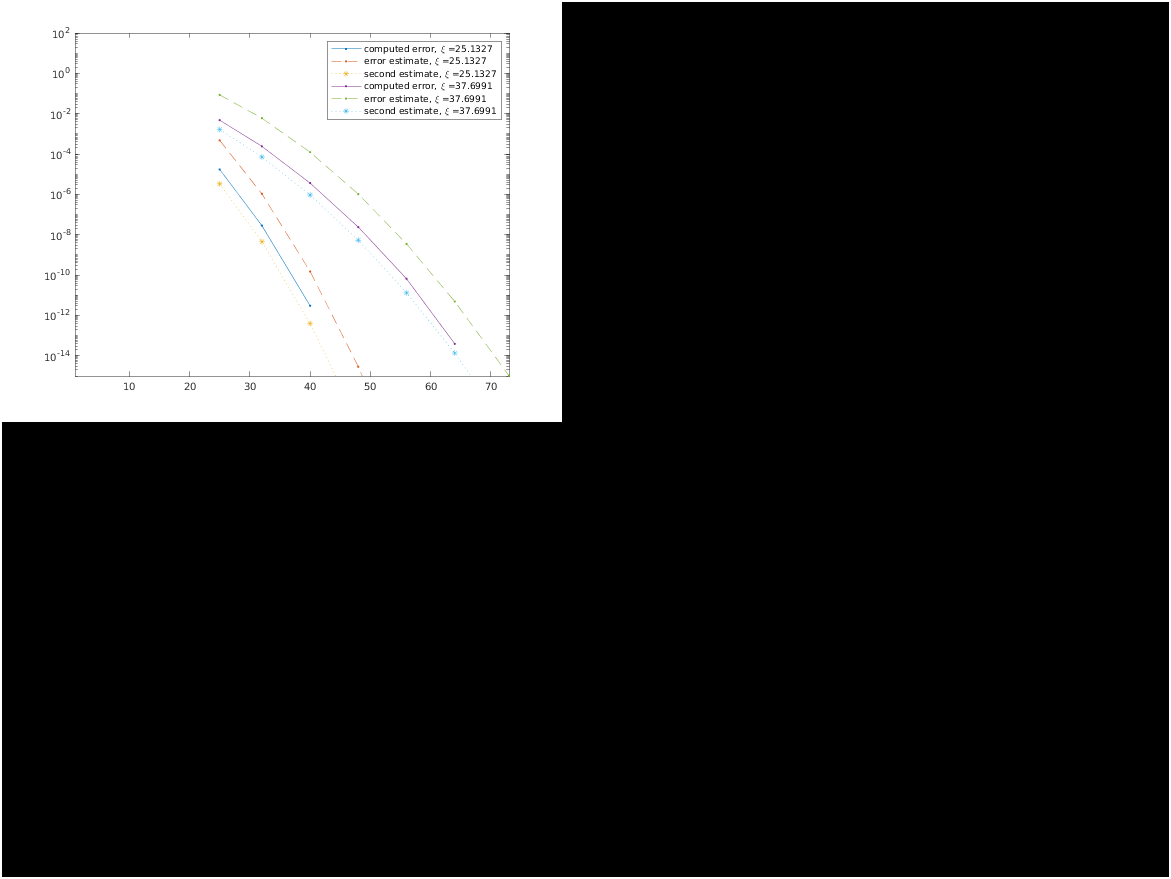
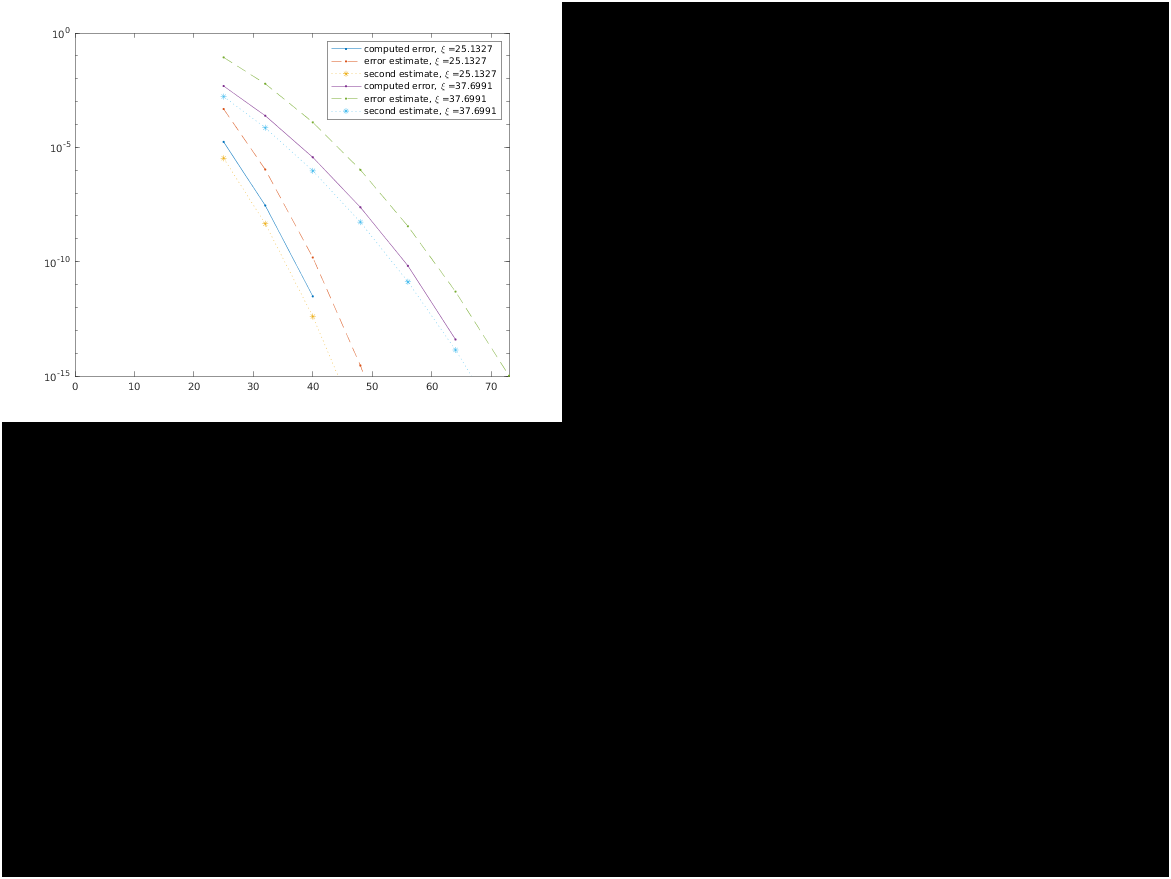
figs

diff --git a/SE_Stokes_run/SE3P_Stokes/param_select.m b/SE_Stokes_run/SE3P_Stokes/param_select.m
@@ -99,7 +99,7 @@ str = [str,strcat('computed error, \xi =', num2str(xi))];
 str = [str, strcat('error estimate, \xi =', num2str(xi))];
 str = [str, strcat('second estimate, \xi =', num2str(xi))];
 end
-axis([1,MM(end)/2,10^-15,100])
+axis([0,MM(end)/2,10^-15,1])
 legend(str{:},'Location','North East')
 
 
